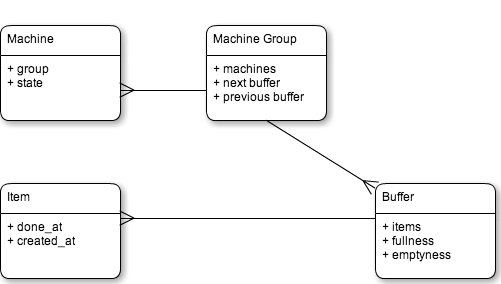
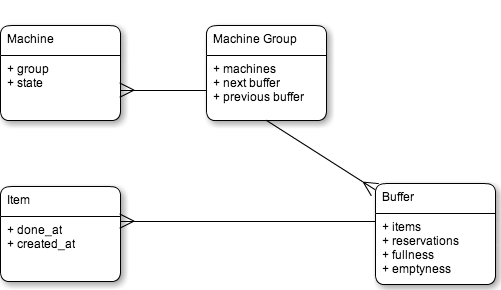
Add 'Reservations'

diff --git a/report.md b/report.md
@@ -9,9 +9,6 @@
 
 ### Explain
 
-- Reserve next buffer
-- Machine and machine group
-- Last buffer
 - How events are initialized
 - Insvängning
 - Förklara hur vi valde dis.
@@ -255,19 +252,18 @@ The implementation is done in the programming language Ruby. It's now super fast
 
 We went with a object oriented design, which encapsulates all logic into classes. This made a huge diffrentce when it came to implementing the event handlers. I most cases the amount of code in the psudo example above and the real implementation is almost a one to one mapping.
 
-Below is a ER representation of the object model. 
+#### Classes
 
 ![er](resources/er-dvd.png)
 
-
-#### MachineGroup
+##### MachineGroup
 
 This class represents a group of machines of a certain kind, for example a printing machine. As soon as a machine within a specific group wants to be started the machine group is asked. It will try to start a machine given that the following conditions are satisfied:
 
 - Is there enough room in the next and previous buffer?
 - Do we have any machines avalible?
 
-#### Machine
+##### Machine
 
 Represents one single machine with in a group. A machine move between three different states.
 
@@ -275,7 +271,7 @@ Represents one single machine with in a group. A machine move between three diff
 - Started - The macine is currently busy and can therefore not be started
 - Broken - The machine is currently broken and can therefore not be started
 
-#### Buffer
+##### Buffer
 
 Keeps track on all items. There are two diffrent buffers, one normal that has a maximum size and one sizeless buffer that acts as output for the system. The endless buffer is connected to machine 4.
 
@@ -285,3 +281,31 @@ A buffer knows how many time a machine has *tried* to interact with it using the
 - Emptyness - The amount of times a machine wanted to take items but could due to emptyness.
 
 These two parameters are important in trying to find the bottleneck in our system. A high *emptyness* value in a buffer means that we should increase the buffer size or the amount of machines in previous steps. A high *fullness* value in a buffer means that there is a bottleneck to the right. Increasing buffer or/and the amount of machines might solve the problem.
+
+###### Reservations
+
+Imagine this problem
+
+1. [0:00] Buffer #1 is almost full, it can only take one more item
+2. [0:00] Machine #1 that uses buffer #1 check to see if buffer is full. It's not so it starts and schedules to be done in 15 min.
+3. [0:05] Machine #2 that also uses buffer #1, it check buffer #1 and draws the same conclusions. It starts it self and schedules to be done in 2 min.
+4. [0:07] Machine #2 is now done, it adds one item to buffer #1, which is now full.
+5. [0:15] Machine #1 is now done, but buffer #1 is full so everyting was in vain.
+
+What we could do here in instead is to *reserve* one item in step #2 and unreserve one item in step #5. The outcome would be that machine #2 never starts.
+
+This is solution we've used in our implementation.
+
+This is how it would look from machine #1 point of view *when is comes to dealing with buffers*.
+
+- On start
+  - Start if previous buffer count > 0 and if next buffer is not full, including reserved items
+  - Reserve one item in next buffer
+  - Decrease previous buffer by one
+- When done
+  - Unreserve 1 item in next buffer
+  - Add one item to next buffer
+
+##### Item
+
+Encapsulates the time from which the item was created and added to the *output buffer*.
